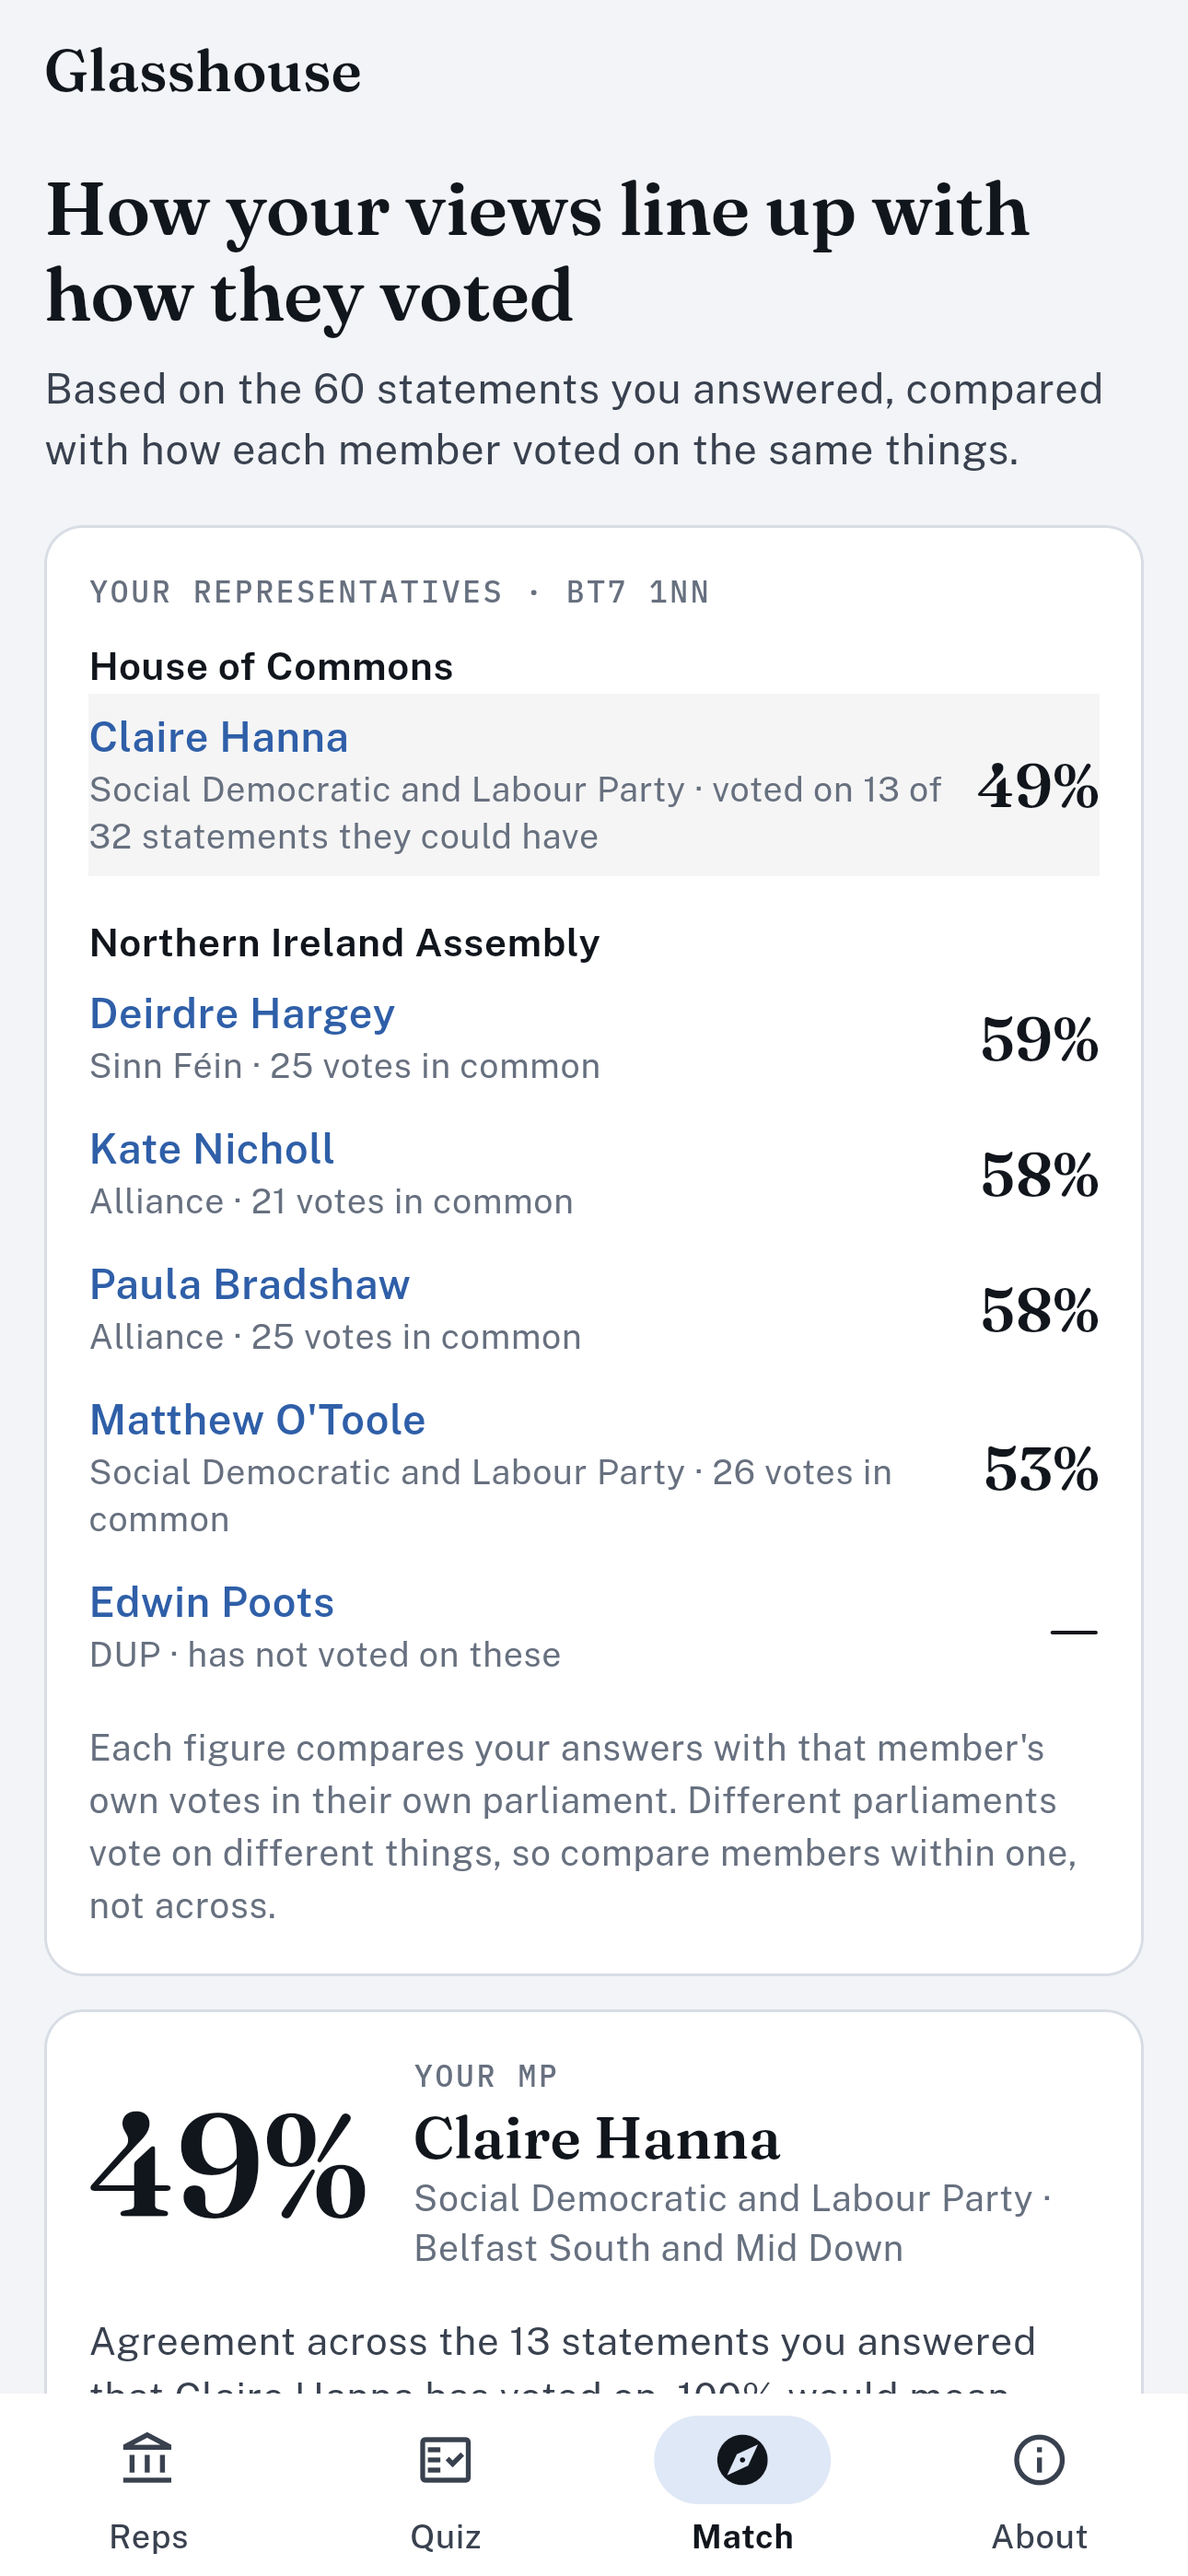
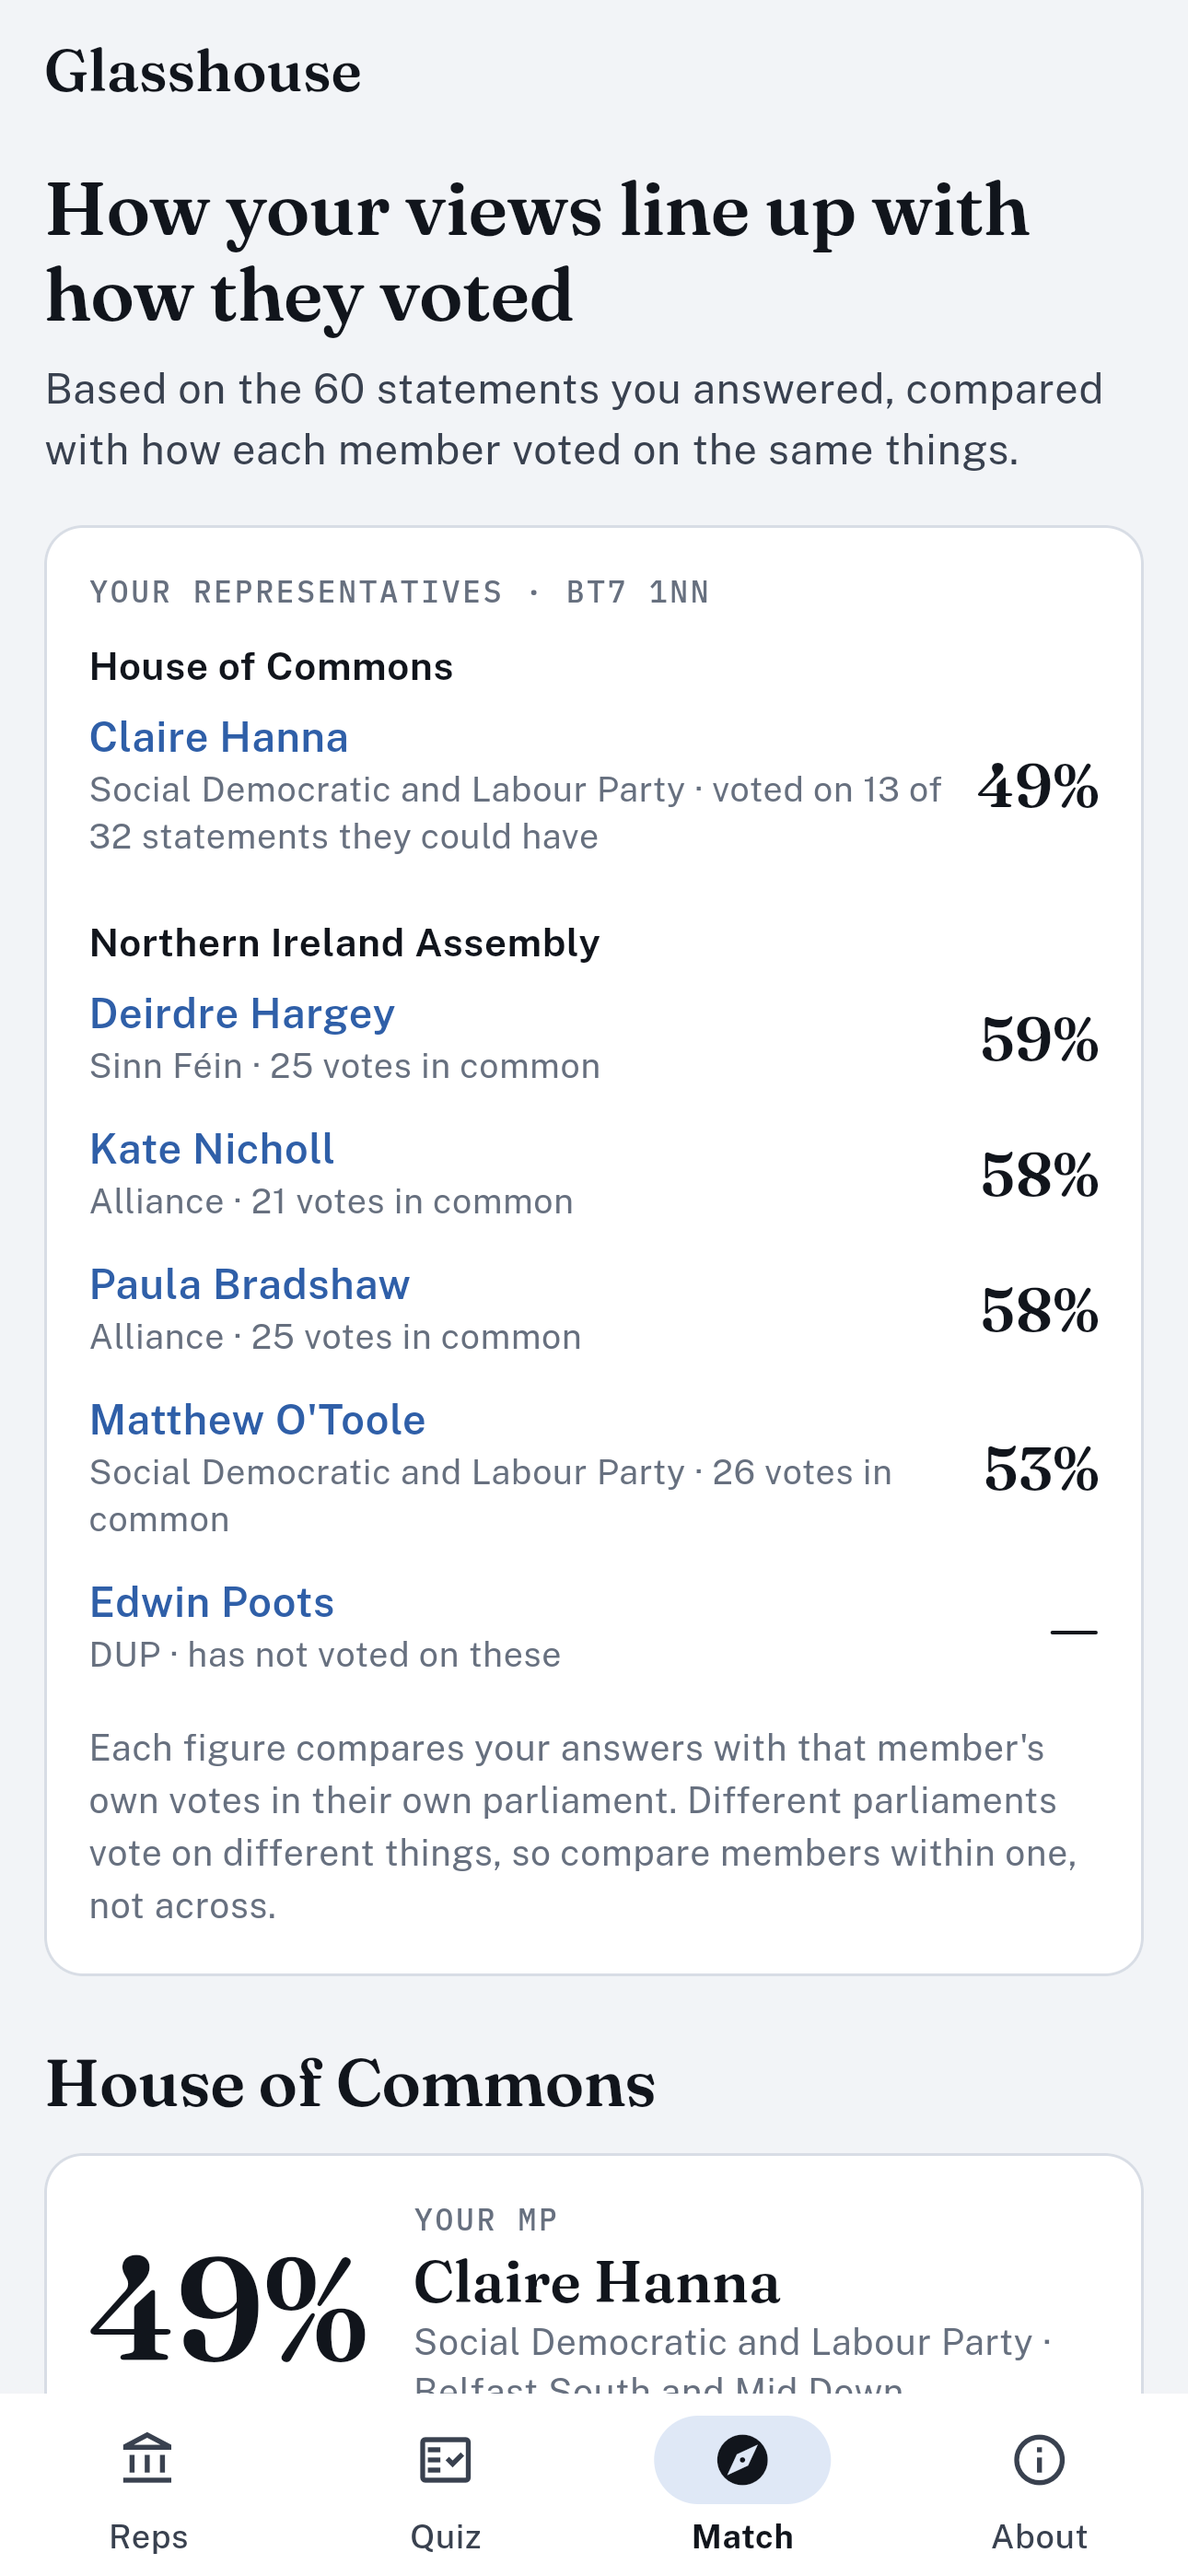
Shop screenshots from the final build, with no pointer in them
Retaken after the House of Commons heading went in. The tool now parks
the pointer on the title bar before each picture: left where it was, it
lit up whichever row was under it and brought up the navigation bar's
tooltips, neither of which a phone ever shows.

Claude-Session: https://claude.ai/code/session_01CLrh9nxY2tojn3728Y2SUi

Changed region(s): [[0.031, 0.7779, 0.8682, 0.9335], [0.8062, 0.8401, 0.8682, 0.8712]]

diff --git a/mobile/tool/screenshots.js b/mobile/tool/screenshots.js
@@ -102,7 +102,10 @@ function serve() {
     await page.waitForTimeout(3500);
 
     const shot = async (label) => {
-      await page.waitForTimeout(800);
+      // A phone has no pointer. Park it on the title bar, where nothing
+      // lights up under it, before the picture is taken.
+      await page.mouse.move(d.width / 2, 20);
+      await page.waitForTimeout(900);
       await page.screenshot({ path: path.join(out, `${d.name}-${label}.png`) });
     };
     // The four destinations share the width of the bar at the bottom.
@@ -110,7 +113,7 @@ function serve() {
       await page.mouse.click((d.width / 4) * (index + 0.5), d.height - 34);
       // A pointer left resting on the bar brings up its tooltip, which a
       // phone never shows. Move it away and let the tooltip go.
-      await page.mouse.move(d.width / 2, d.height / 3);
+      await page.mouse.move(d.width / 2, 20);
       await page.waitForTimeout(1600);
     };
 
